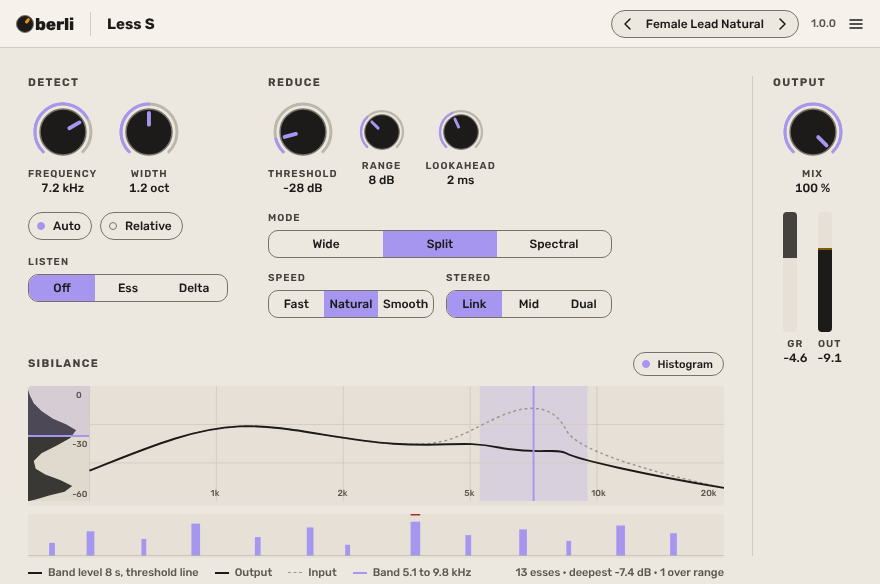
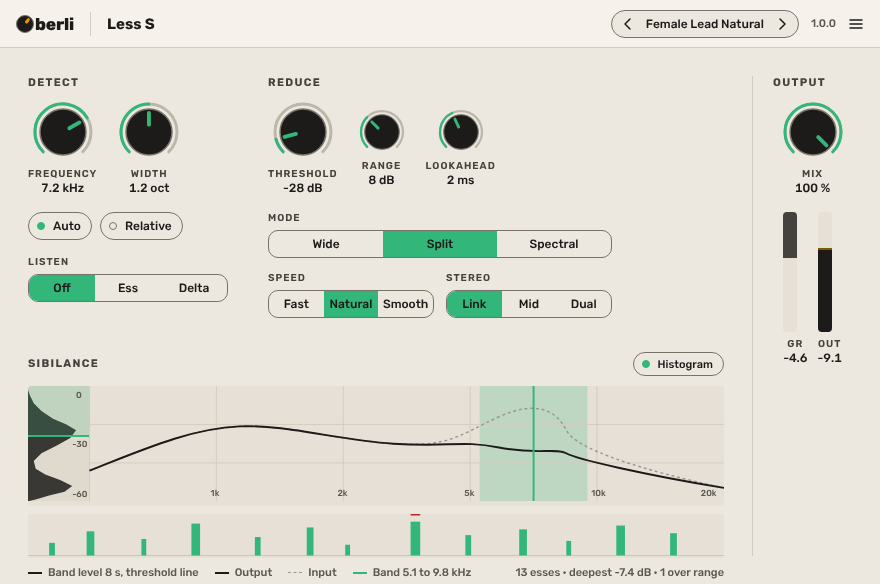
Category accent: sage (mix tools)
Oberli Audio moves from one accent per plugin to one accent per category
(decided 2026-11-01): mango brand, tangerine instruments, banana creative
effects, sage mix tools, peacock analysis and monitoring. CLAUDE.md and
the sketch frames updated; the registry and brand sheet follow in
bob-skills.

Claude-Session: https://claude.ai/code/session_01L1he38gxGMRoz4WAYr3LiS

diff --git a/docs/sketch.md b/docs/sketch.md
@@ -1,6 +1,6 @@
 # Less S - de-esser (Tier S sketch)
 
-Tier S, gate G0-G2 sketch. Oberli Audio effect, Bone theme, accent iris #A796F0 (jade went to A B see, mango is Horizon Pad; check the Design System artifact). Static frame: `less-s@1x.png` (880 x 584 at 100 %), `less-s@2x.png` for Retina viewing. Sound side: sound-design-bob is needed for the detector, the split-band crossover and the spectral mode; this sketch states what the DSP must do and the evidence that proves it.
+Tier S, gate G0-G2 sketch. Oberli Audio effect, Bone theme, accent Sage #33B679 (mix tools, category scheme confirmed 2026-11-01). Static frame: `less-s@1x.png` (880 x 584 at 100 %), `less-s@2x.png` for Retina viewing. Sound side: sound-design-bob is needed for the detector, the split-band crossover and the spectral mode; this sketch states what the DSP must do and the evidence that proves it.
 
 ## 1. G0 brief
 
@@ -32,7 +32,7 @@ Tier S, gate G0-G2 sketch. Oberli Audio effect, Bone theme, accent iris #A796F0 
 
 1. **Window** 880 x 584 at 100 %, Bone, compact; the sibilance display is the one large sunken well.
 2. **Hero** is what the ear cannot judge: one display well. The spectrum, input (dashed) against output (ink), with the detection band; on its left edge, inside the same well and sharing its level axis, the band-level histogram of the last 8 s drawn vertically with the Threshold line across it (a vocal shows two humps, voice body and esses, and the threshold belongs in the valley between them); underneath the ess map showing each caught ess as a bar of its depth over the last 8 s, a red tick where it hit the Range ceiling. The GR meter is secondary.
-3. **Accent** iris on the set and active only: value arcs and pointers, lit LEDs, selected segments, the detection band and the ess bars (they are the plugin's action, so they carry the accent; the GR meter does not).
+3. **Accent** Sage on the set and active only: value arcs and pointers, lit LEDs, selected segments, the detection band and the ess bars (they are the plugin's action, so they carry the accent; the GR meter does not).
 4. **Sections** in signal-flow order from the table's groups: Detect, Reduce, Sibilance (display, no parameters), Output (Mix 64 px, GR and level meters, output column last).
 5. **States**: modified (pill dims), drawer, About (charcoal page), bypass, Ess listen (display shows only the band, output meter shows the band level, header pill shows "Listening: Ess" in `ink-subtle`), Delta listen (same with "Delta"), Auto learning (a 2 s progress hairline under the Frequency knob, knobs animate to the found values), Spectral mode (the Lookahead knob reads "n/a" and is disabled because the FFT already looks ahead).
 
@@ -144,7 +144,7 @@ Init first; then by singer and use: Female Lead Natural, Male Lead Natural, Back
 
 ## 7. Open decisions for Björn
 - Name: Less S (decided 2026-11-01). Slug `less-s`, plugin ID `LessS`.
-- Accent: iris proposed.
+- Accent: Sage #33B679, by the category scheme (decided 2026-11-01): one accent per category, mix tools.
 - Should Spectral be the default mode instead of Split? Split nulls and is zero latency, which fits the live-stream use; Spectral sounds more transparent on dense vocals. The sketch says Split.
 - Learn button on the panel at P, or menu only? The sketch keeps the panel clean and puts it in the menu; a friend test decides.
 

diff --git a/CLAUDE.md b/CLAUDE.md
@@ -6,7 +6,7 @@ Guidance for Claude Code in this repository.
 
 Less S (Oberli Audio), an effect plugin (VST3; the formats ship.toml lists), built with
 JUCE pinned by commit (CMakeLists.txt) and started from the family template
-(Oberli-Audio/plugin-template). Theme bone, accent iris (#A796F0), plugin code
+(Oberli-Audio/plugin-template). Theme bone, accent sage (#33B679; category accent for mix tools, decided 2026-11-01, registry update pending in bob-skills), plugin code
 `Less`, bundle id `com.oberliaudio.lesss`: all from the family registry (ship-bob
 `registry/plugins.toml`), never changed after the first release.
 
